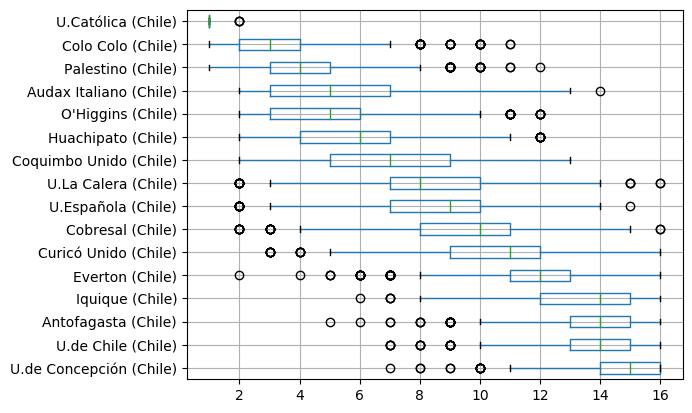
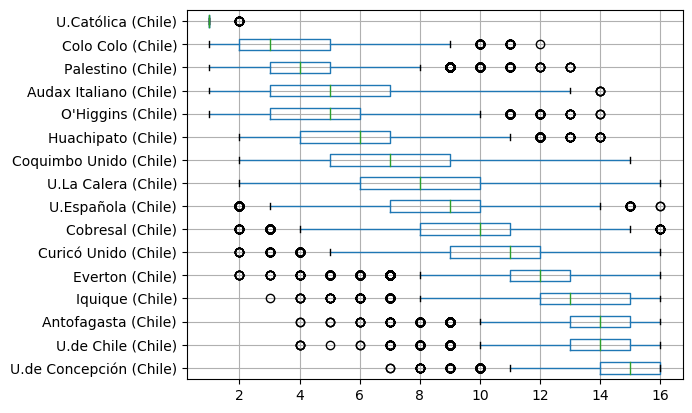
update with 10000 iter

diff --git a/torneo_nacional.py b/torneo_nacional.py
@@ -21,7 +21,7 @@ def suma_puntos(row):
         puntajes[indice_local] += 1
         puntajes[indice_visita] += 1
 
-n_iter = 1000
+n_iter = 10000
 puntajes_guardados = []
 posiciones_guardadas = []
 for i in range(n_iter):
@@ -35,7 +35,7 @@ for i in range(n_iter):
     posiciones_guardadas.append(posiciones)
 
 puntajes_guardados_df = pd.DataFrame(puntajes_guardados, columns = equipos)
- 
+
 puntajes_guardados_df[puntajes_guardados_df.columns[::-1]].boxplot(vert=False).get_figure().savefig('boxplot_puntajes.png', bbox_inches = "tight")
 plt.clf()
 
